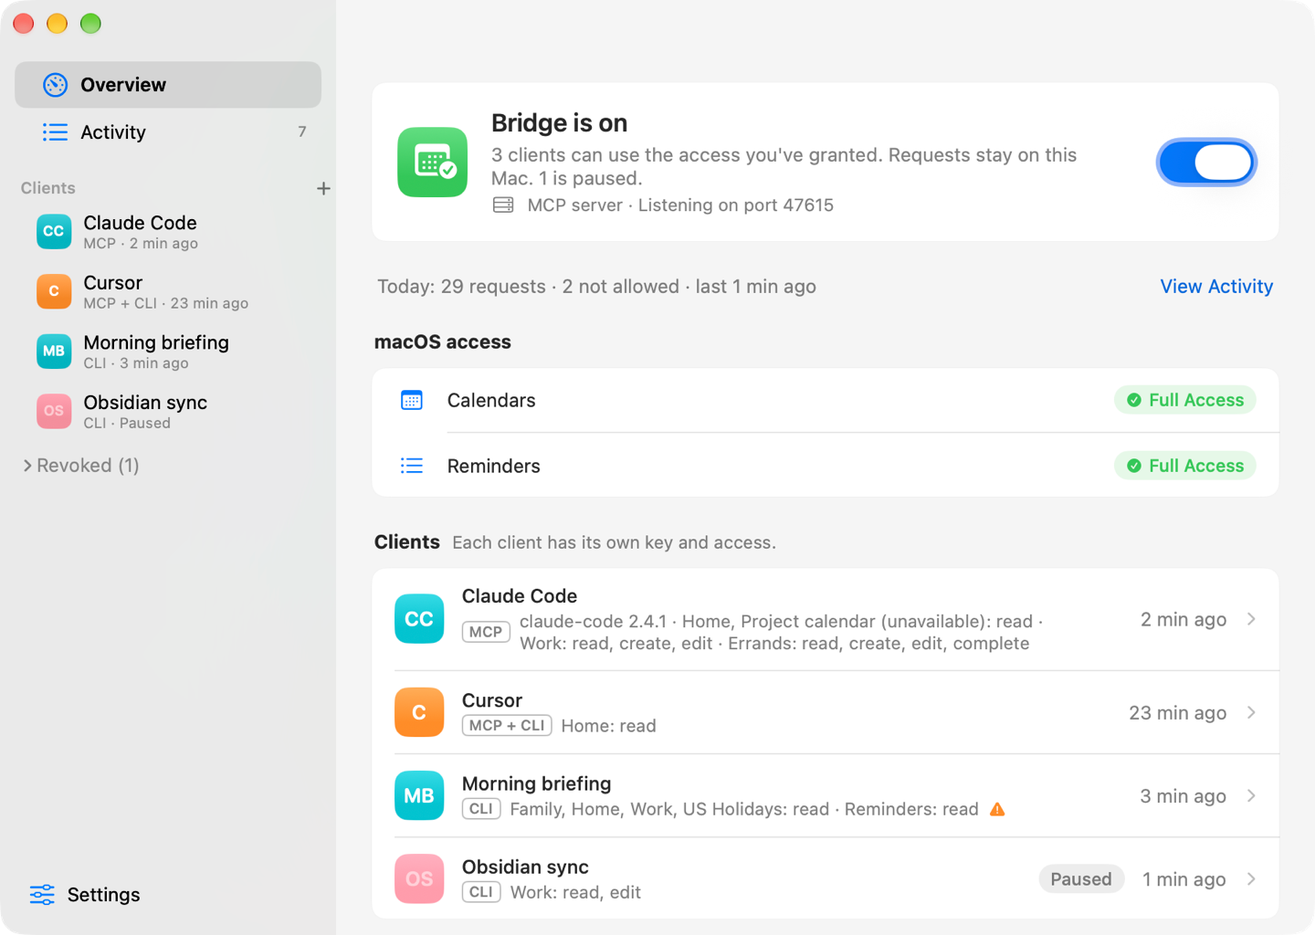
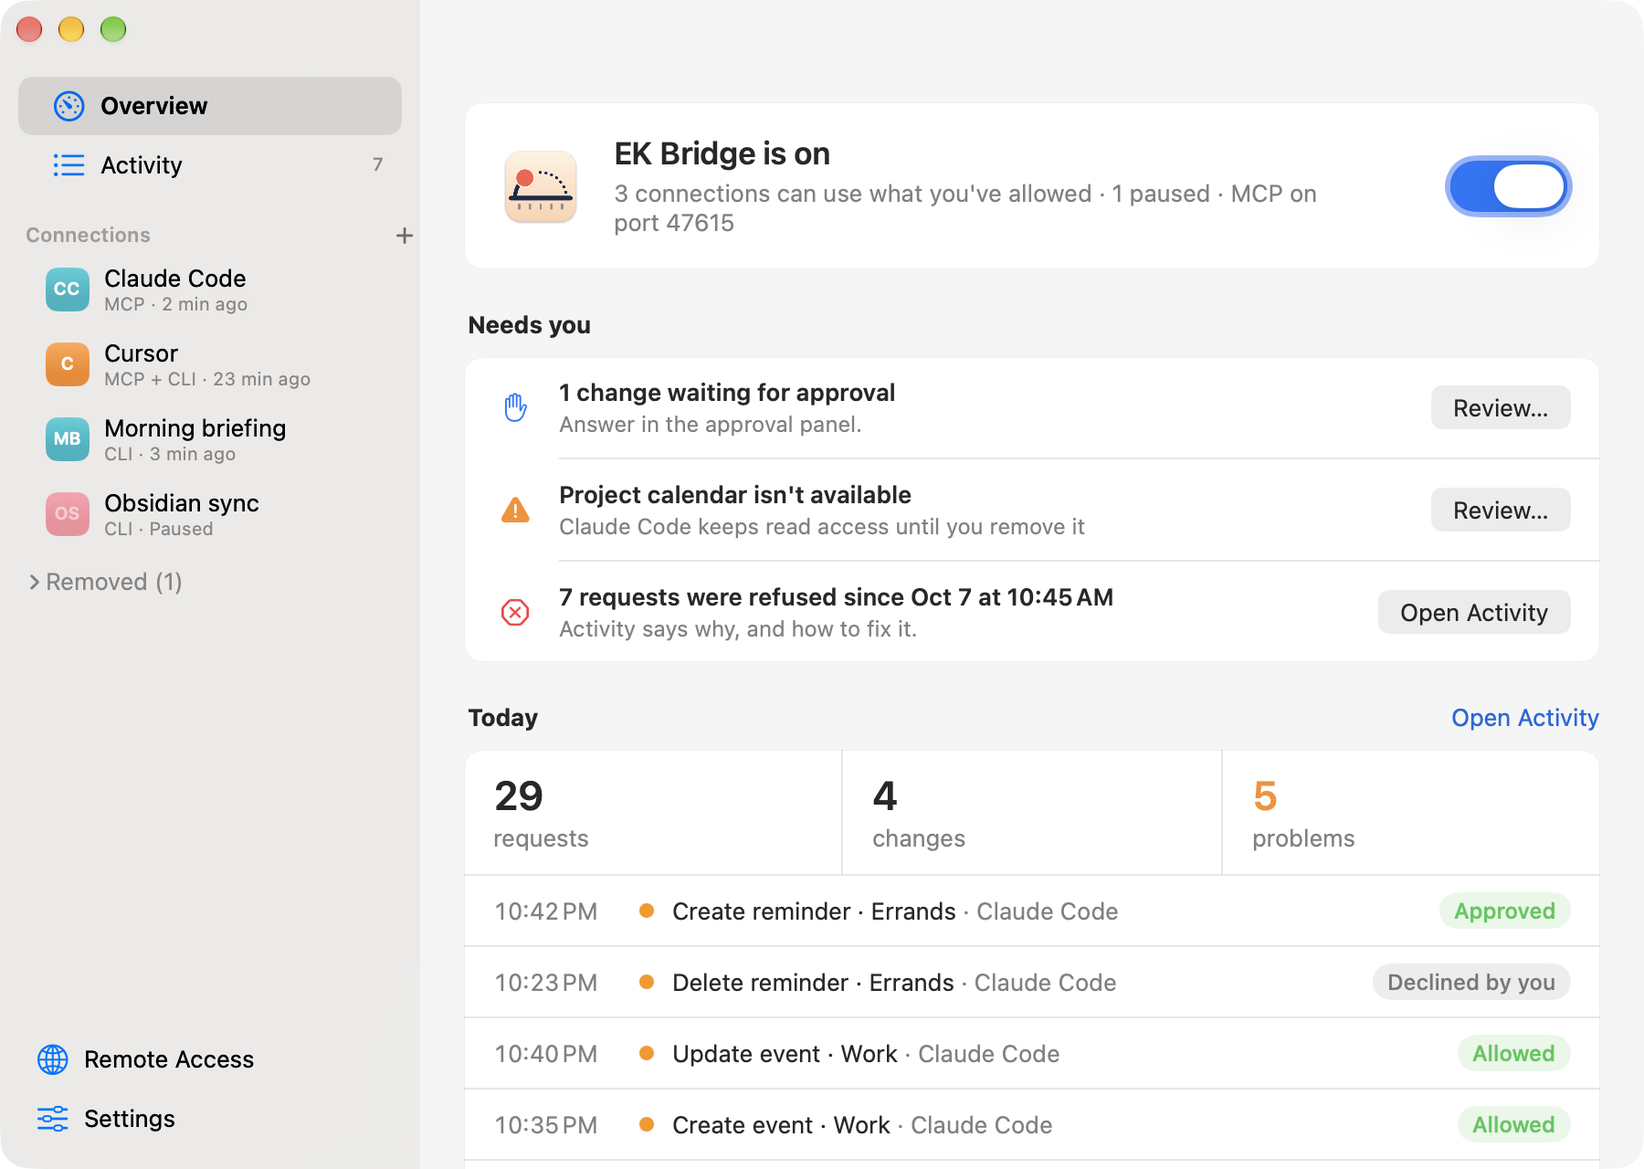
Prepare 0.9.0
Info.plist 0.9.0 (build 12), server.json, and the CHANGELOG [0.9.0]
release notes. README, the MCP guide, USAGE, MAINTAINING and TESTING
describe phase B, and docs/images are re-shot from the final snapshots
(new setup-light/dark in Get started; the Connect tab moves to the MCP
guide).

diff --git a/docs/TESTING.md b/docs/TESTING.md
@@ -11,6 +11,8 @@
 | Rename migration | part of `sh test.sh` (`build/rename-migration-tests`) | `RenameMigration` with two throwaway defaults suites and a temporary Application Support folder: a new install records itself and creates nothing; a full migration moves the data folder (contents and modes kept), leaves a relative link that still reads key files, copies the known settings without overwriting existing values or the checklist's done and hidden flags, and shows the notice once; settings-only migration; an empty folder from an interrupted launch is replaced; a conflict or an unwritable folder records nothing and changes nothing, and the next launch succeeds; an existing link isn't moved; `bridge-client` and `bridge-mcp` fall back to the old folder only while the new one doesn't exist |
 | HTTP message parser | part of `sh test.sh` (`build/http-message-tests`) | The pure HTTP/1.1 request parser and response writer: a table of byte sequences fed at every split point, chunked bodies, size limits (413, 431), malformed and duplicate headers, HTTP/1.0, pipelining, `Expect: 100-continue`, response framing, and 10,000 seeded fuzz cases. |
 | MCP time | part of `sh test.sh` (`build/mcp-time-tests`) | ISO 8601 parsing and formatting: offsets, `Z`, fractions, local times with DST gaps and folds in five zones (including a 30-minute shift and a midnight change), all-day date ranges and readback dates, the 1900–2100 range, and the error messages. |
+| One-click agent setup | part of `sh test.sh` (`build/agent-config-writer-tests Tests/agent-config`) | The JSON merge against goldens in `Tests/agent-config/` (no file, empty file, `{}`, other servers pretty, compact and tab-indented, no `mcpServers`, unicode and escaped slashes, a different entry replaced), identical entries left alone, refusals (invalid JSON, comments, arrays, `mcpServers` not an object, over 1 MB), no token in any output, the diff lines, and `apply` in a temporary folder: backups (0600), kept permissions, new private folders, a file changed since the preview refused, symlinks followed. Also `ExecutableLocator` with a fake file system and the process runner's timeout |
+| Agent detection | part of `sh test.sh` (`build/agent-detection-tests`) | Installed agents from fake probes: bundle IDs, path fallbacks under the home folder, command-line tools, agents never marked installed, and the stored agent kind per connection |
 | Agent setup | part of `sh test.sh` (`build/agent-setup-tests Tests/agent-setup`) | Every agent × method snippet byte for byte against the goldens in `Tests/agent-setup/`, including paths with spaces and apostrophes; no snippet contains `ekb_mcp_v1_`; server key and client ID only; JSON and TOML syntax; install links; generated shell commands parse back to the intended arguments when run against stub `claude`, `codex` and `code` commands. Remote Access: every cloud agent's setup, steps, warnings and footnote (`cloud-*.txt`) and every tunnel's commands, configuration, steps and notes (`tunnel-*.txt`); no cloud snippet contains a token prefix (`ekb_mcp_v1_`, `ekb_mcpr_v1_`, `ekb_oat_v1_`, `ekb_ort_v1_`); JSON syntax; the `curl` snippets run through `/bin/sh` with a stub `curl` and carry the token from the environment exactly, whatever the client's name holds. |
 | Item fields (plan 03) | part of `sh test.sh` (`build/recurrence-tests`, `event-fields-tests`, `reminder-fields-tests`, `reminder-schedule-tests`, `recurring-completion-tests`, `approval-summaries-tests`) | **Recurrence**: parsing and validation of every rule field, anchors, pure expansion (ordinals, set positions, 31st and leap days, until and count) with DST in America/New_York, Europe/Madrid and America/Santiago, round trips through in-memory `EKRecurrenceRule`, unsupported rules, readback comparison by occurrences, RRULE text and plain-English summaries. **Event fields**: text normalization, URL and scheme rules, places, alarms (including in-memory `EKAlarm` round trips and unsupported alarms), partial-update parsing, the resolver (zones, all-day, floating, conversions, spans, availability, anchors, moves) and the readback verifier with good and bad readbacks. **Reminder fields**: priorities, start and due, alarm lists, the 0.5 single alarm, alarms following a moved due date, recurrence, completion, moves and the verifier. **Reminder schedule**: applying a resolved write to in-memory `EKReminder` objects, rows, and snapshot restore (original EventKit objects are kept, because a copy loses an alarm's sound). **Recurring completion**: the account-type allowlist, the next due date for every rule shape, transition guards. **Approval summaries**: every panel row, before → after, spans with counts, moves, refused changes. |
 | MCP tool mapping | part of `sh test.sh` (`build/mcp-tool-mapping-tests Tests/mcp-fixtures`) | Golden pairs: tool arguments → core parameters (or the refusal), and core results → `structuredContent` or agent error text, for every tool, every plan 03 field, null clears, spans, moves, paging, all-day events, due, alarm and recurrence forms, recurring completion, `repeated`, and the outcome-code text table. Every code the core can emit has a text (the scan includes `FieldError` codes). |
@@ -23,7 +25,7 @@
 | Update relaunch gate | part of `sh test.sh` (`build/update-relaunch-gate-tests`) | `UpdateRelaunchGate` with a fake clock: Sparkle relaunches at once with nothing waiting; with changes in the approval panel it's held, polled every half second and released once when the queue empties, or at the deadline (the 45-second approval timeout plus 5); a second request while waiting isn't held; a gate that's gone never calls back; and the controls of a copy that can't update itself do nothing. |
 | Ordinary app and CLI build | `sh build.sh` | Source compiles, emits an ad hoc signed app with the signed `bridge-mcp` launcher, `bridge-client` and Sparkle (`Contents/Frameworks`, without its XPC services) inside, and passes `scripts/check_bundle.sh`. The pinned Sparkle archive is downloaded once and checked against its SHA-256. Does not install or launch the app. |
 | Native window and behavior fixture | `sh ui_test.sh` from a logged-in GUI session | Eight close/reopen cycles of the main window with its sheets, then a scripted pass through undo, write implies Read, the unsaved-changes prompt (close, pane switch, bridge toggle, quit), keyboard shortcuts, rename, create, pause and resume (nothing asked, credentials kept, the menu item flips), revoke and Activity deep links. MCP steps: create a command-line client, switch Connect tabs, no snippet contains the token, Copy Token and Reset ask first (cancel copies nothing; reset bumps the revision), changing Ask before changes bumps the revision, the approval panel's Allow, Deny, timeout, queue limit and 15-minute allowance with a fake clock, port validation, and turning the MCP server off with recent agents asks first. Remote Access steps: turning it on asks first and creates a secret path, address validation and the MCP URL, the remote port can't be the MCP port, Test reporting Reachable (faked), cloud access and Copy Remote Token asking first and creating the token, a cloud app pairing through registration and the authorize page, the sheet showing the code, a second request waiting instead of replacing the sheet and appearing after the first is answered, Deny closing pairing, turning cloud access off asking first and removing the token, and **Turn Off Remote Access** from the menu. Uses a temporary registry, fake calendars and a separate defaults domain; no EventKit permission request, live bridge or listener. Updates, with a fake updater: a found update's Overview card and menu item, closing the card, a security update's card staying, **Check for Updates…** from the app menu clearing the reminder, the automatic-check switch, and a copy that can't update itself (the menu item disabled). |
-| Screen snapshots | `sh ui_snapshots.sh [folder]` from a logged-in GUI session | PNGs of every screen and sheet in light and dark mode from the same fake data, for pull requests and the README, including `client-paused`, `overview-update`, `overview-update-security`, `settings-updates`, `settings-updates-source-build`, `overview-mcp`, `client-connect-agent-claude-code`, `client-connect-agent-claude-desktop`, `client-connect-direct-other`, `client-connect-no-token`, `client-connect-cli`, `client-connect-server-off`, `settings-mcp-listening`, `settings-mcp-port-in-use`, `activity-mcp-inspector`, `activity-minimum` (760 × 520), `settings-about`, `menu-glyphs` (the menu bar icons, which the status item can't capture), `sheet-move-to-applications` (the launch question, also with `--ui-move-prompt`), `overview-moved` (the relaunched copy's banner), `approval-panel-create`, `approval-panel-update`, `approval-panel-delete-queued`, `approval-panel-event-fields`, `approval-panel-recurring-delete`, `approval-panel-reminder-fields`, `new-client-sheet-mcp`, and for Remote Access `settings-remote`, `settings-remote-more`, `client-cloud`, `client-cloud-bearer`, `sheet-pairing` and `sheet-oauth-client` (`--ui-remote` starts with Remote Access on, an address and a cloud client). Each window is captured once its frame has settled, and the script fails if any PNG is under 400 pixels wide. Needs Screen Recording permission for the terminal (`--cache` doesn't, but leaves lists and tables blank). |
+| Screen snapshots | `sh ui_snapshots.sh [folder]` from a logged-in GUI session | PNGs of every screen and sheet in light and dark mode from the same fake data, for pull requests and the README, including `client-paused`, `overview-update`, `overview-update-security`, `settings-updates`, `settings-updates-source-build`, `overview-mcp`, `client-connect-agent-claude-code`, `client-connect-agent-claude-desktop`, `client-connect-direct-other`, `client-connect-cli`, `client-connect-copy`, `client-connect-cloud-off`, `client-tab-activity`, `client-connect-one-click-done`, `sheet-config-preview`, `sheet-config-preview-claude-code`, `client-connect-server-off`, `settings-mcp-listening`, `settings-mcp-port-in-use`, `activity-mcp-inspector`, `activity-minimum` (760 × 520), `settings-about`, `menu-glyphs` (the menu bar icons, which the status item can't capture), `sheet-move-to-applications` (the launch question, also with `--ui-move-prompt`), `overview-moved` (the relaunched copy's banner), `approval-panel-create`, `approval-panel-update`, `approval-panel-delete-queued`, `approval-panel-event-fields`, `approval-panel-recurring-delete`, `approval-panel-reminder-fields`, the Add a Connection sheet (`sheet-new-client`, `-write`, `-script`, `-no-access`, `-cloud`), setup (`setup`, `setup-progress`, `setup-cli`, `setup-complete`), Overview (`overview` with Needs you, `overview-quiet`, `overview-paused`, `overview-paused-until`), Settings tabs (`settings`, `settings-advanced`, `settings-about`), and for Remote Access `remote-not-set-up`, `remote-guide-1` to `remote-guide-3`, `remote-guide-4-failed`, `remote-set-up`, `client-cloud`, `client-cloud-bearer`, `sheet-pairing` and `sheet-oauth-client` (`--ui-remote` starts with Remote Access on, an address and a cloud client). Each window is captured once its frame has settled, and the script fails if any PNG is under 400 pixels wide. Needs Screen Recording permission for the terminal (`--cache` doesn't, but leaves lists and tables blank). |
 
 The offline MCP tests bind ephemeral ports on 127.0.0.1 only and use temporary folders; they never touch the real registry, token files, `remote-connections.json` or EventKit. No offline test needs a tunnel or reaches the internet; the CIMD fixture serves HTTPS on localhost, and the UI review build makes no network requests. Goldens are regenerated with `UPDATE_GOLDENS=1 sh test.sh` (see [Maintaining](MAINTAINING.md#regenerating-goldens)). The scripts use the SDK `xcrun` selects, or `EVENTKIT_SDK` ([Setup](SETUP.md#requirements)); locally that has been the Command Line Tools macOS 26 SDK, and in CI the runner's Xcode. Run the UI fixture in a logged-in graphical session; a headless or restricted process can fail before its window assertions run. `build/` is ignored by source control.
 

diff --git a/README.md b/README.md
@@ -24,7 +24,7 @@ A free, open-source Mac menu bar app that lets Claude, ChatGPT, Cursor and your 
 <p align="center">
 <picture>
   <source media="(prefers-color-scheme: dark)" srcset="docs/images/overview-dark.png">
-  <img alt="EK Bridge Overview: EK Bridge is on, Calendars and Reminders have Full Access, and three connections are listed with their access and last request." src="docs/images/overview-light.png" width="720">
+  <img alt="EK Bridge Overview: EK Bridge is on with three connections and MCP on port 47615; Needs you lists a change waiting for approval, an unavailable calendar and refused requests; Today shows 29 requests, 4 changes and 5 problems with the latest changes." src="docs/images/overview-light.png" width="720">
 </picture>
 </p>
 
@@ -61,8 +61,8 @@ Twelve tools cover events and reminders, with every field Calendar supports: tim
    3. **Connect it.** **Add to Claude Desktop…** (or Cursor, or Claude Code) shows the exact change to the agent's settings, keeps a backup and never writes the token; it also turns EK Bridge on. For other agents, copy the command or config from the connection's **Connect** tab. The step is done when the agent's first request arrives.
 
 <picture>
-  <source media="(prefers-color-scheme: dark)" srcset="docs/images/connect-agent-dark.png">
-  <img alt="Connect ▸ AI agent on a connection's page: Claude Code is selected with the recommended direct HTTP method, a claude mcp add-json command to copy, a Connected status, a hidden token with Reset, and the server URL." src="docs/images/connect-agent-light.png" width="720">
+  <source media="(prefers-color-scheme: dark)" srcset="docs/images/setup-dark.png">
+  <img alt="Set up EK Bridge: Calendar and Reminders allowed with Full Access, Claude Code added to read all calendars and lists and ask before changes, and step 3, Connect Claude Code, with an Add to Claude Code button. Below: Copy the setup instead, the update checkbox and Add a command-line connection." src="docs/images/setup-light.png" width="660">
 </picture>
 
 That's it: ask your agent one of the questions above. Setups for every agent and troubleshooting are in the [MCP guide](docs/MCP.md).
@@ -79,7 +79,7 @@ Every agent has its own key and its own access: Read, Create, Edit and Delete fo
 
 <picture>
   <source media="(prefers-color-scheme: dark)" srcset="docs/images/access-dark.png">
-  <img alt="A connection's Access table: Work has Read, Create and Edit; Home has Read; Family and a Google team calendar have nothing; Birthdays and US Holidays are read-only calendars. Changes are set to Ask me first." src="docs/images/access-light.png" width="640">
+  <img alt="A connection's Access tab: Work has Read, Create and Edit; Home has Read; Family and a Google team calendar have nothing; Birthdays and US Holidays are read-only. Changes are set to Ask me first, each column header has a menu and each row a ⋯ button with presets." src="docs/images/access-light.png" width="640">
 </picture>
 
 ### You approve each change

diff --git a/docs/MAINTAINING.md b/docs/MAINTAINING.md
@@ -10,7 +10,10 @@ This guide is for maintainers: where the code lives, how a change is made and re
 | `Sources/BridgeAppModel.swift` | UI state and actions shared by the menu bar, the window and the setup checklist |
 | `Sources/StatusMenuController.swift`, `Sources/MainWindowController.swift` | Menu bar extra; the one main window, its unsaved-changes guard and Dock policy |
 | `Sources/MainView.swift`, `OverviewView.swift`, `ClientDetailView.swift`, `ActivityView.swift`, `SettingsView.swift`, `UIComponents.swift` | SwiftUI views hosted in AppKit (the Add a Connection sheet and port sheet live in `ClientDetailView.swift`; Settings ▸ Advanced in `SettingsView.swift`) |
-| `Sources/RemoteAccessView.swift`, `Sources/RemoteAccessSupport.swift` | Remote Access UI: the Settings card and tunnel guide, the client page's Cloud section, the pairing sheet, the OAuth client sheet (Gemini Enterprise), and the address and port sheets; the keep-awake power assertion and the **Test** probe |
+| `Sources/AddConnectionSheet.swift` | Add a Connection: agent tiles, the name filled in, Starting access (`StartingAccess` in `ClientGrantEditing.swift`) |
+| `Sources/AgentDetection.swift` | Which agents are installed (bundle IDs, config folders, command-line tools) through an injected probe; each connection's agent kind (`ConnectionAgentKinds`, UserDefaults) |
+| `Sources/AgentConfigWriter.swift`, `Sources/ExecutableLocator.swift`, `Sources/OneClickSetup.swift` | One-click agent setup: the pure JSON merge (text insert that keeps the file's layout, verification, backup, atomic write), finding `claude` and running it with an argument array, and the live preview, apply and restart behind Add to <Agent>… |
+| `Sources/RemoteAccessView.swift`, `Sources/RemoteAccessSupport.swift` | Remote Access UI: the Remote Access page and its guide (`RemoteGuide` in `AppPresentation.swift`), the client page's Cloud section, the pairing sheet, the OAuth client sheet (Gemini Enterprise), and the address and port sheets; the keep-awake power assertion and the **Test** probe |
 | `Sources/AgentSetup.swift`, `Sources/ConnectAgentView.swift` | Agent catalog and the pure snippet generator for every agent and method, plus the cloud agents (`CloudAgentKind`) and tunnel guides (`TunnelProvider`, which also names the tunnel from request headers); the Connect ▸ AI agent tab (picker, method, snippet, status, token actions) |
 | `Sources/ApprovalCenter.swift`, `Sources/ApprovalPanel.swift` | Ask before changes: the pending queue, 45 s timeouts, 3 per client, 15-minute allowances; the non-activating panel and the summaries it shows |
 | `Sources/AppIdentity.swift`, `AppPresentation.swift`, `OutcomePresentation.swift` | Product name and identities (and the live-test copy's isolation checks), display formatting, setup checklist logic, outcome labels and fixes (shared with the CLI) |

diff --git a/CHANGELOG.md b/CHANGELOG.md
@@ -6,6 +6,10 @@ Versions up to 0.7.0 were built and used from source only; none was published as
 
 ## [Unreleased]
 
+## [0.9.0] - 2026-10-08
+
+A structure release. The app calls clients **connections**, and one switch runs everything: when EK Bridge is on, the local MCP server runs for the connections that use it, and **Pause EK Bridge** (for an hour, until tomorrow or until you turn it on) stops all of it. Adding an agent is a tile and a starting access, and for Claude Desktop, Cursor and Claude Code one click writes the setup for you, with a preview and a backup. Setup takes three steps, a connection's page has Access · Connect · Activity tabs, Remote Access has its own guided page, Settings has tabs, and Overview shows today and what needs you. Agents and scripts need no changes; their messages say EK Bridge is paused instead of off. The client registry stays at **version 4** and the old MCP setting is kept in step, so going back to 0.8.3 means installing its DMG over this one.
+
 ### Added
 
 - **Pause EK Bridge ▸ For 1 Hour / Until Tomorrow / Until I Turn It On** in the menu bar. A timed pause turns EK Bridge back on by itself (8:00 the next morning for Until Tomorrow), and Overview and the menu say until when.
@@ -24,6 +28,11 @@ Versions up to 0.7.0 were built and used from source only; none was published as
 - Settings has **General · Advanced · About** tabs. General: start at login, Dock, updates and the Ask before changes defaults. Advanced: the local MCP server, the command-line tool and developer tools. About: version, links and the setup checklist.
 - Overview is about today: a compact on/paused card, **Needs you** (changes waiting for approval, problems, unavailable calendars, refused requests you haven't seen, an update) only when something does, and **Today** with the day's requests, changes and problems and the latest changes. The connection list moved to the sidebar only, and the macOS access card shows only when access is missing.
 - Less text on screen: explanations that don't prevent a mistake moved behind ⓘ buttons (Start at login, Dock, Ask before changes, developer tools, agent and tunnel notes), and notes that appeared more than once now appear once.
+
+### Fixed
+
+- A connection used only from the command line no longer says "Waiting for the agent…" next to its last request time; it reads **Connected · last request …**, and the time appears once.
+- Setup's **Copy Test Command** turns EK Bridge on first, so the test doesn't fail because the bridge is off.
 
 ## [0.8.3] - 2026-10-08
 

diff --git a/docs/MCP.md b/docs/MCP.md
@@ -50,6 +50,8 @@ For these three, the connection's **Connect** tab has **Add to Claude Desktop…
 - **Claude Desktop and Cursor:** EK Bridge reads `~/Library/Application Support/Claude/claude_desktop_config.json` or `~/.cursor/mcp.json` and shows the exact change (the file, a summary such as *Adds “ek-bridge” to mcpServers*, and the lines it adds or replaces). **Add** re-reads the file (if it changed since the preview, nothing is written), saves a copy next to it as `<file>.ekbridge-backup-<date>-<time>` (mode 0600), and writes the new file in one step, keeping its permissions. Every other server and setting stays as it was, and so does the file's layout: the entry is inserted as text, matching the file's indentation, instead of rewriting the file. A missing file (and folder) is created; an entry that's already there and identical is left alone (*Already set up*); a different `ek-bridge` entry is replaced. A file that isn't valid JSON, isn't an object, or is over 1 MB isn't touched: the sheet says why and offers **Copy the Setup Instead**. A symbolic link (dotfiles) is followed, so the link stays. Afterwards, Claude Desktop needs a restart: **Restart Claude Desktop** quits it and opens it again (or says to do it by hand if it doesn't quit within 5 seconds).
 - **Claude Code:** EK Bridge finds `claude` (in `~/.claude/local`, `~/.local/bin`, Homebrew, `/usr/local/bin`, `~/.npm-global/bin`, `~/.bun/bin`, or through your login shell) and shows the command it will run: the same `claude mcp add-json --scope user ek-bridge …` as below, run with an argument list, never through a shell. If Claude Code already has an `ek-bridge` server, the sheet asks to **Replace** it (`claude mcp remove --scope user ek-bridge` first). The output is shown. Claude Code connects the next time it starts (or run `/mcp`).
 
+![A connection's Connect tab: Add EK Bridge to Claude Desktop, with the settings file, the entry it adds, Add to Claude Desktop… and Restart Claude Desktop, then Copy the setup instead, Advanced options and Set up a different agent…, the hidden token and the server URL with a Listening status.](images/connect-agent-light.png)
+
 **Copy the setup instead** and **Advanced options** show the copyable setups below and the other methods.
 
 #### Copy the setup

diff --git a/docs/USAGE.md b/docs/USAGE.md
@@ -49,7 +49,7 @@ Pausing saves immediately and doesn't ask first, because it's undone by resuming
 
 <picture>
   <source media="(prefers-color-scheme: dark)" srcset="images/client-paused-dark.png">
-  <img alt="A paused connection's page: a Paused label next to its name, and a card saying it's paused since a date, that every request is refused and shows in Activity as Connection was paused, that its keys, tokens, access and cloud connections are kept, with a Resume button." src="images/client-paused-light.png" width="720">
+  <img alt="A paused connection's page: the header says Paused since a date, and a card above the Access, Connect and Activity tabs says every request is refused and shows in Activity as Connection was paused, and that its keys, tokens, access and cloud connections are kept, with a Resume button." src="images/client-paused-light.png" width="720">
 </picture>
 
 Only active connections count toward the limit of 32. Removed connections stay in the sidebar under **Removed**, read only, so Activity stays understandable; the app keeps up to 200 of them and drops the oldest first.
